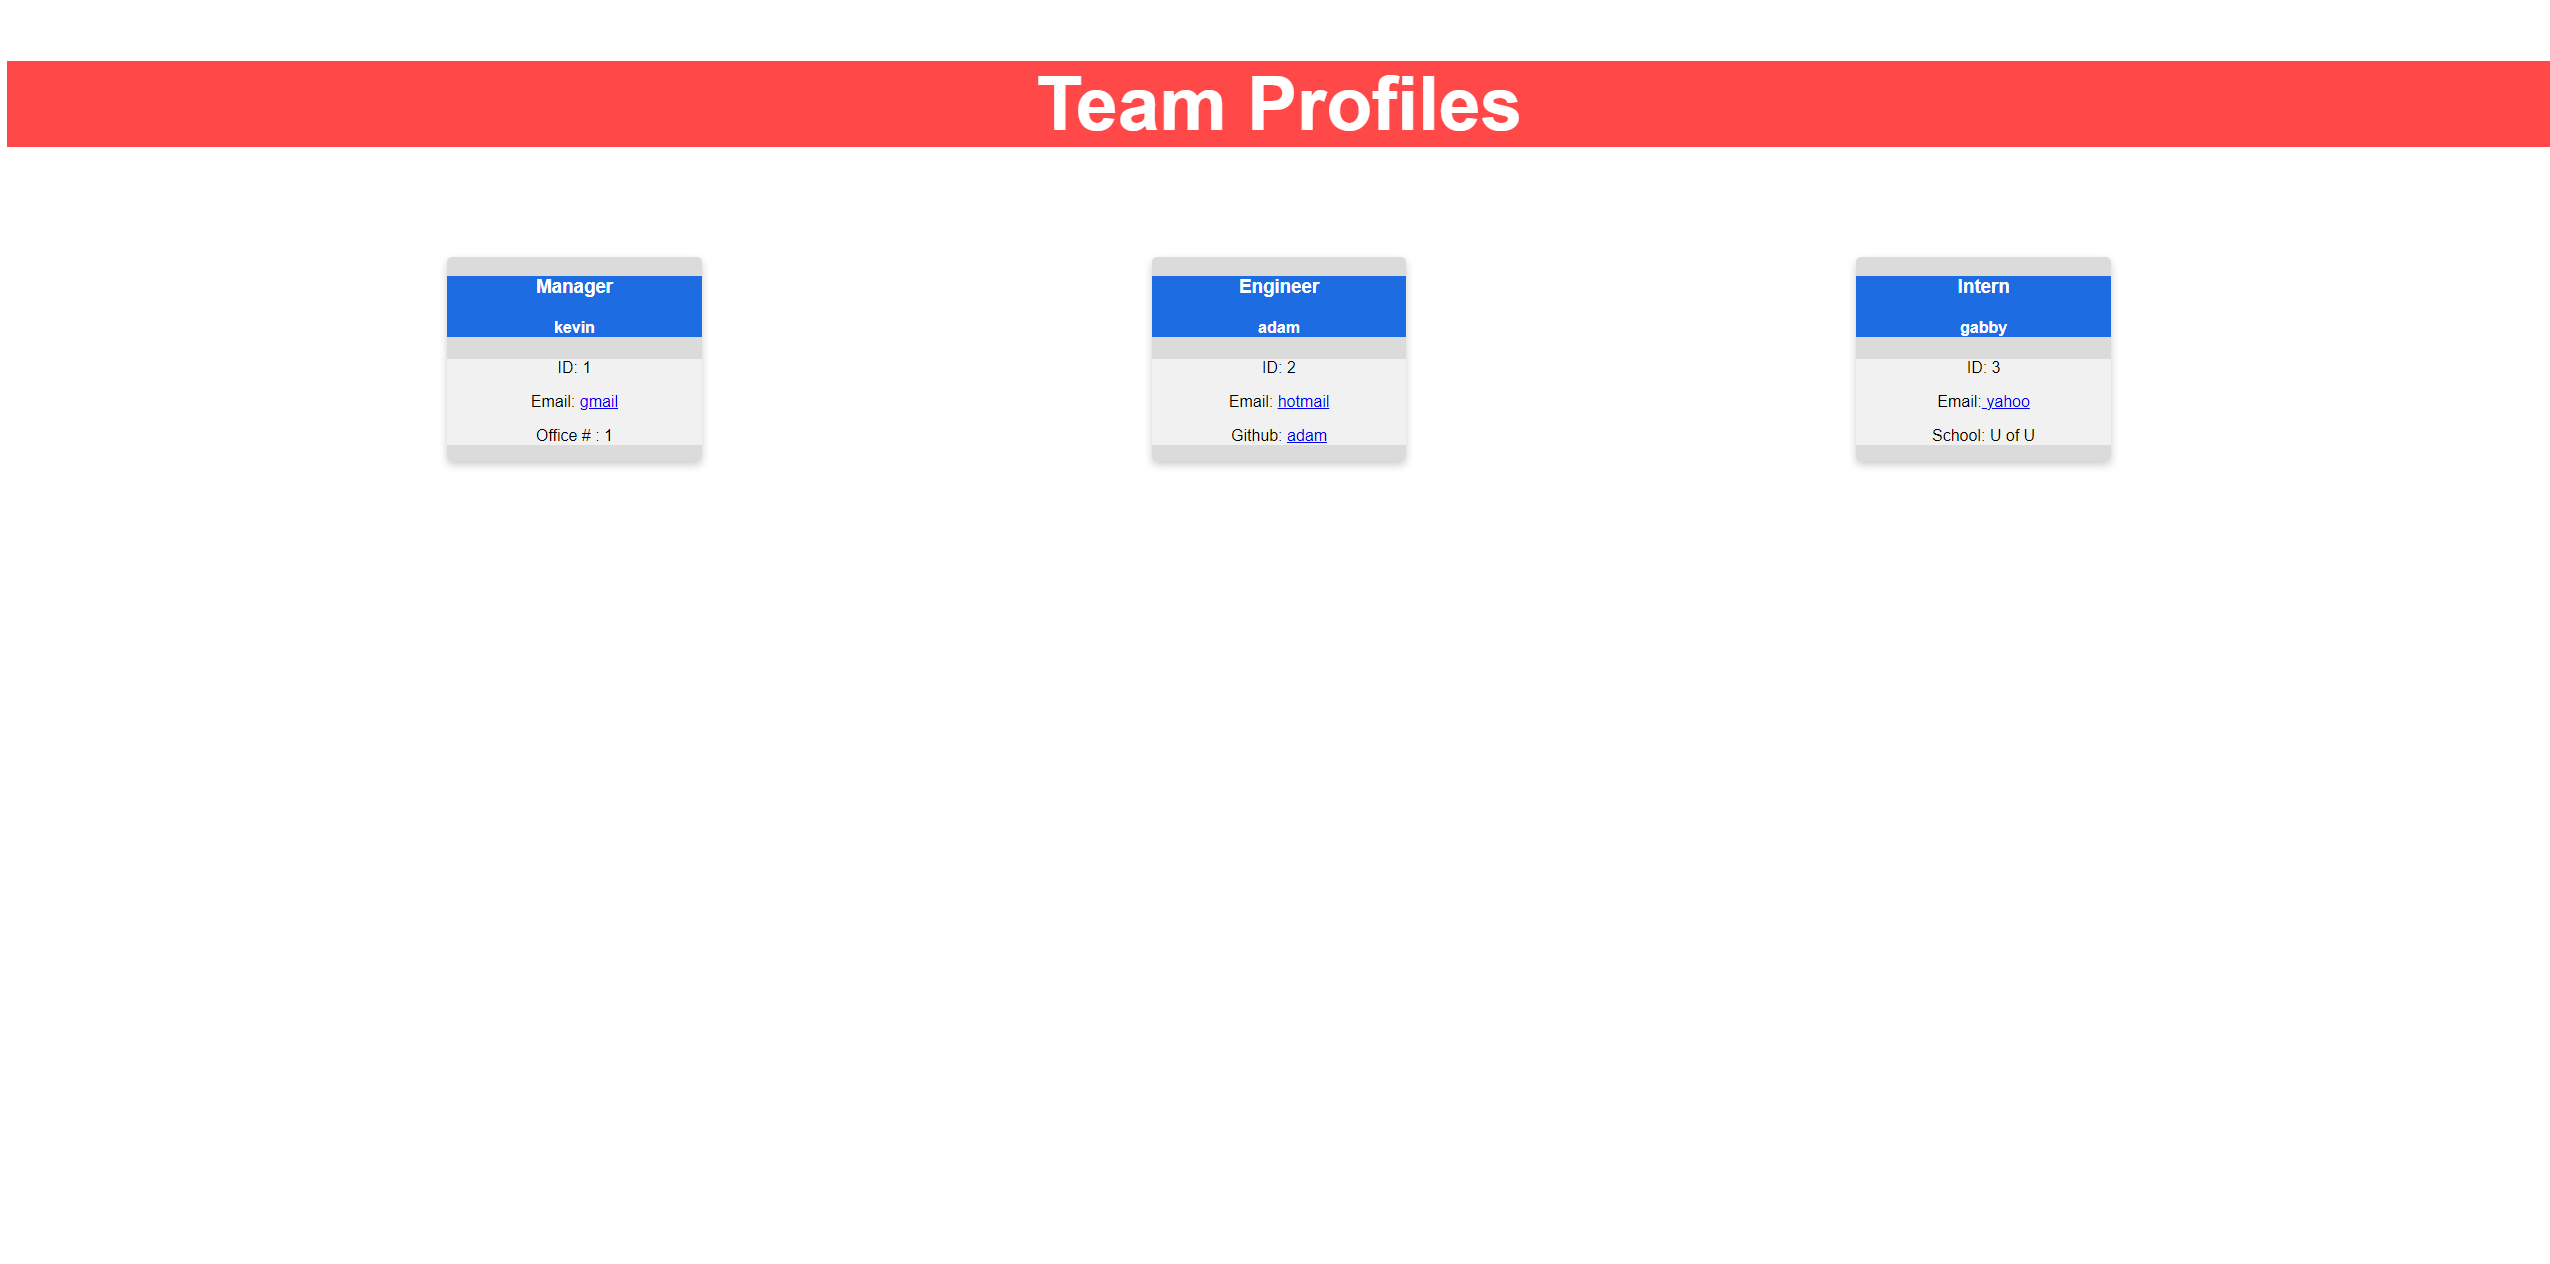
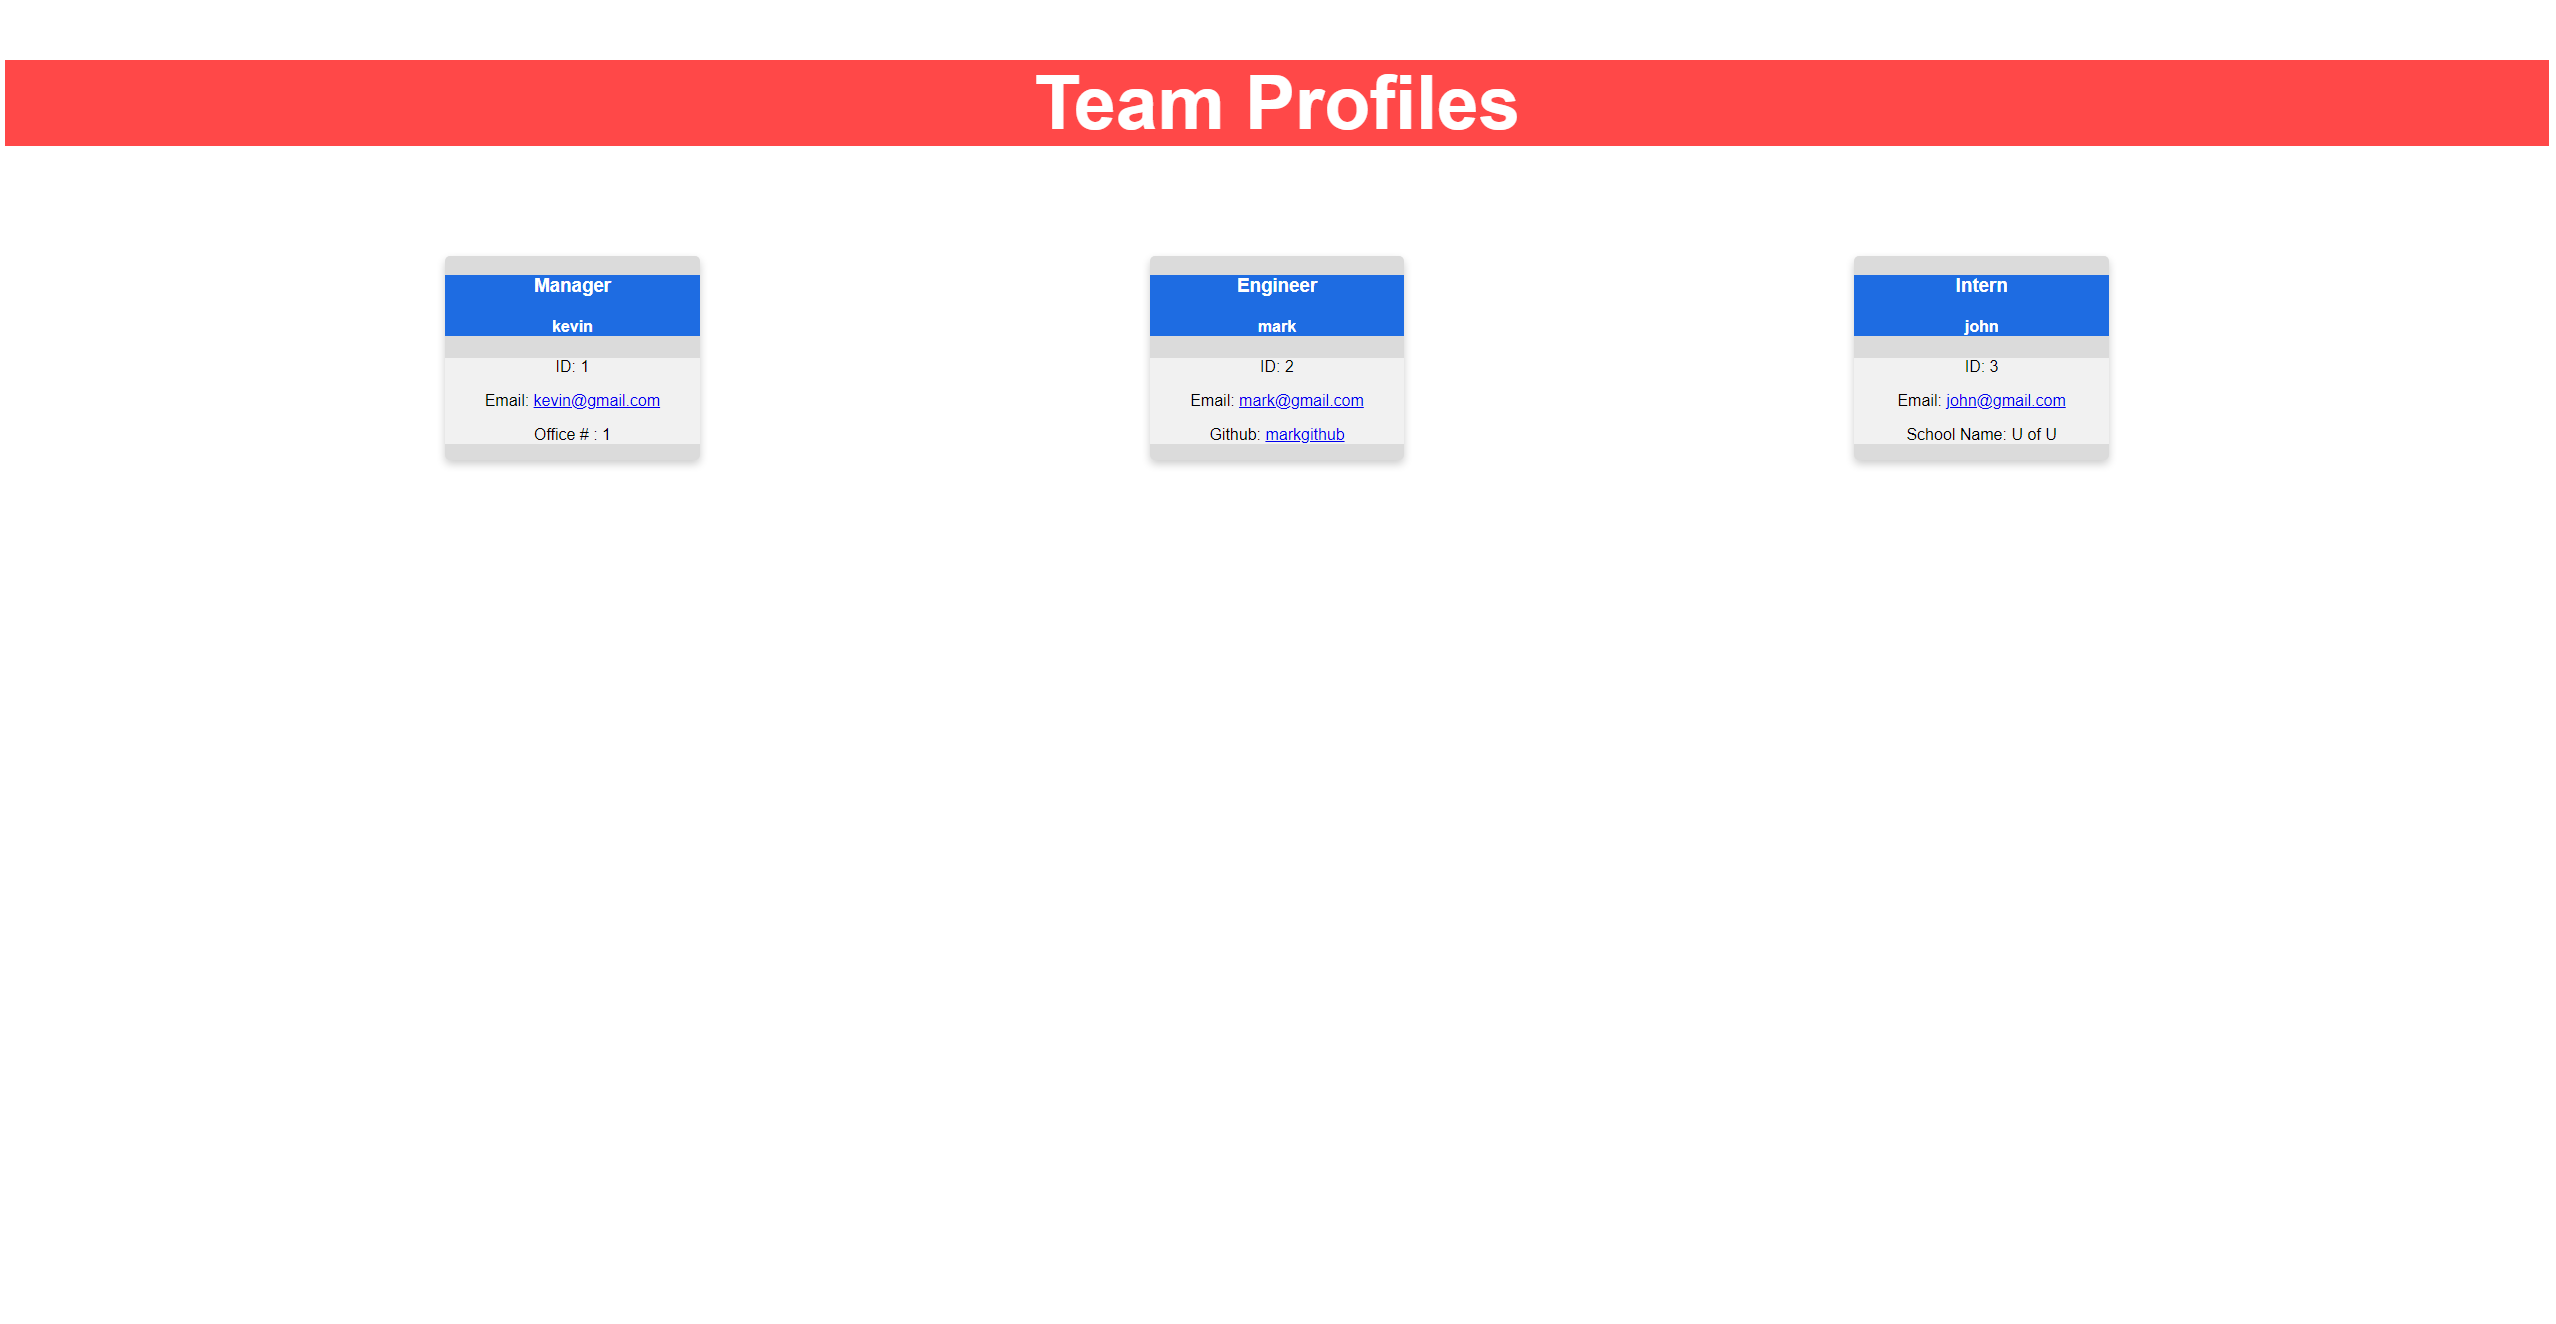
new screenshot and walkthrough video using correct files

diff --git a/dist/index.html b/dist/index.html
@@ -1,0 +1,61 @@
+
+        <!DOCTYPE html>
+        <html lang="en">
+        <head>
+            <meta charset="UTF-8">
+            <meta http-equiv="X-UA-Compatible" content="IE=edge">
+            <meta name="viewport" content="width=device-width, initial-scale=1.0">
+            <title> Team Profiles </title>
+            <link rel = "stylesheet" href = "style.css">
+        </head>
+
+        <body>
+            <header> 
+                <h2> Team Profiles </h2> 
+            </header>
+            <main>
+                <div class = "container">
+                    
+            <div class="profile">
+            <div class="profile-header">
+                <h3>Manager</h3>
+                <h4>kevin</h4>
+            </div>
+            <div class="profile-content">
+                <p class="id">ID: 1</p>
+                <p class="email">Email: <a href="mailto:kevin@gmail.com">kevin@gmail.com</a></p>
+                <p class="office">Office # : 1</p>
+            </div>
+            </div>
+        
+                    
+            <div class="profile">
+            <div class="profile-header">
+                <h3>Engineer</h3>
+                <h4>mark</h4>
+            </div>
+            <div class="profile-content">
+                <p class="id">ID: 2</p>
+                <p class="email">Email: <a href="mailto:mark@gmail.com">mark@gmail.com</a></p>
+                <p class="github">Github: <a href="https://github.com/markgithub">markgithub</a></p>
+            </div>
+            </div>
+        
+                    
+            <div class="profile">
+            <div class="profile-header">
+                <h3>Intern</h3>
+                <h4>john</h4>
+            </div>
+            <div class="profile-content">
+                <p class="id">ID: 3</p>
+                <p class="email">Email: <a href="mailto:john@gmail.com">john@gmail.com</a></p>
+                <p class="school">School Name: U of U</p>
+            </div>
+            </div>
+        
+                </div>
+            </main>
+        </body>
+        </html>
+    

diff --git a/README.md b/README.md
@@ -1,11 +1,5 @@
 # Team profile generator
 
-## Table of Contents
-- [User Story](#user-story)
-- [Acceptance Criteria](#acceptance-criteria)
-- [Screenshot](#screenshot)
-- [Walkthrough Video](#walkthrough-video)
-
 ## Objective
 
 ```
@@ -44,10 +38,23 @@ WHEN I decide to finish building my team
 THEN I exit the application, and the HTML is generated
 ```
 
+## Instructions
+
+```
+1. Run npm test to make sure all the models are working
+2. Run node index to launch the command line application
+3. Select which postition the employee is at
+4. Enter information based on the prompt question (Name, Id, Email, etc)
+5. Select "No" or "Finished" to write HTML file
+6. Navigate to dist folder
+7. Right click index.html and select "Open in Default Browser"
+8. Enjoy your employee's profiles
+```
+
 ## Screenshot
 ![Team Generator HTML Webpage Screenshot](./assets/Screenshot_1.png)
 
 </br>
 
 ## Walkthrough Video
-![Walkthrough Video](./assets/team%20profile%20generator.gif)
+![Walkthrough Video](./assets/teamprofilegen.gif)
